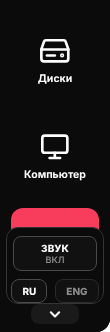
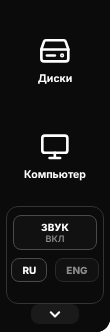
fix(ui): open dock fully covers the last rail tile on a low window
Claude-Session: https://claude.ai/code/session_01CrL2vkkucqzyVPL3EYmh66

Changed region(s): [[0.0545, 0.6024, 0.9, 0.9036], [0.9273, 0.6325, 0.9545, 0.7229], [0.3545, 0.9036, 0.3818, 0.9337]]

diff --git a/apps/desktop/src/App.svelte b/apps/desktop/src/App.svelte
@@ -450,6 +450,15 @@
       visibility 0s;
   }
 
+  /* Низкое окно: раскрытая карточка целиком закрывает последнюю плитку панели (её верх на 588 px),
+     чтобы выбранная плитка не торчала полоской над карточкой. */
+  @media (max-height: 760px) {
+    .bottom-wrap.open {
+      min-height: 96px;
+      align-content: end;
+    }
+  }
+
   .bottom {
     display: flex;
     flex-direction: column;
